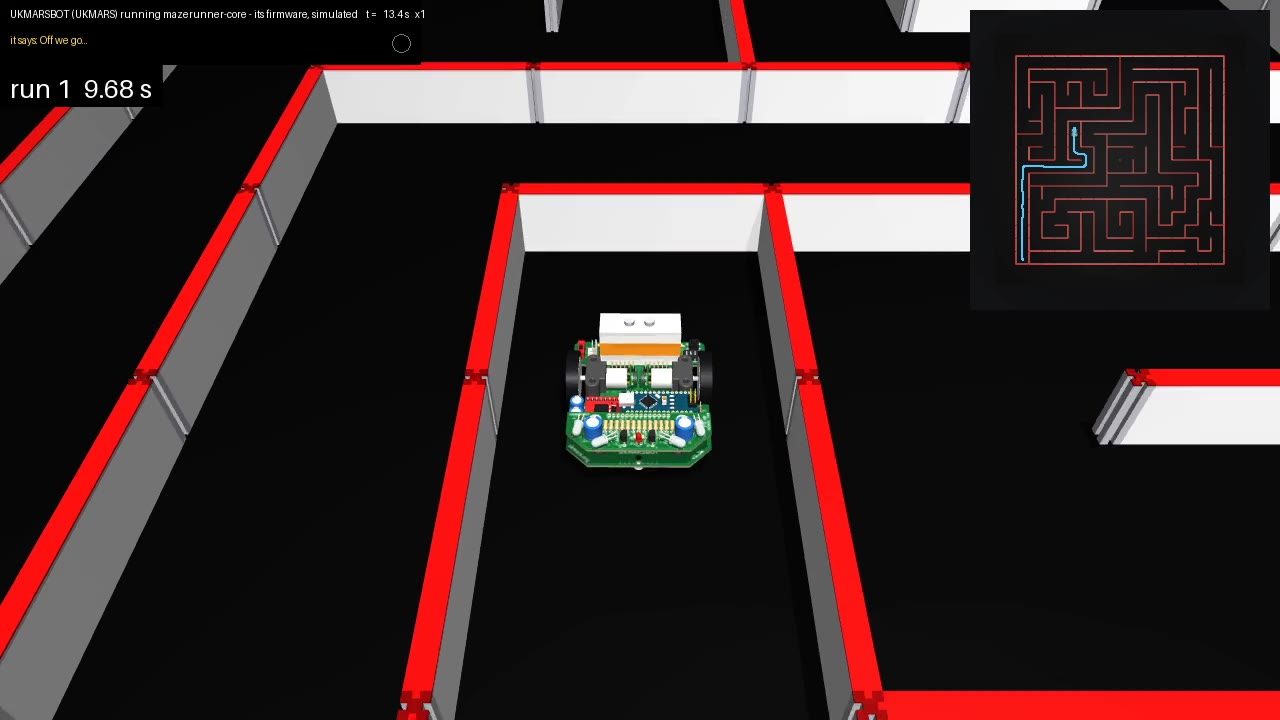
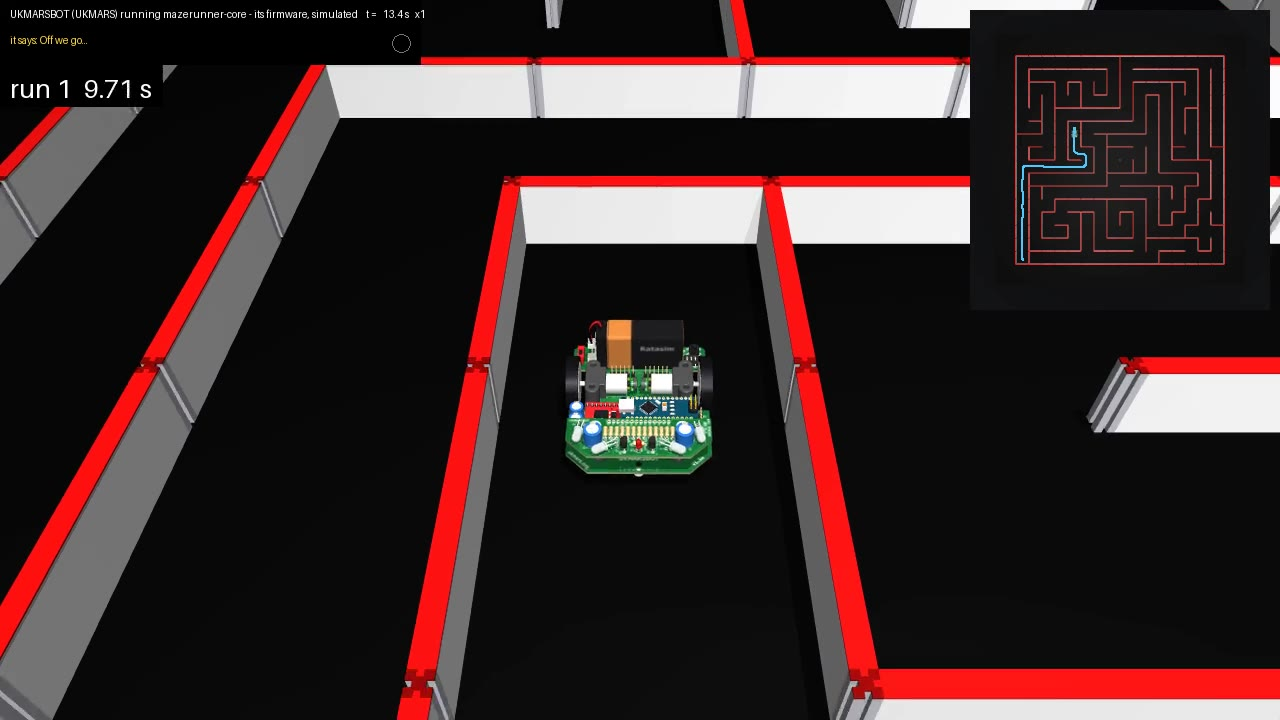
UKMARSBOT's battery as a real PP3 rather than a plain block (ratasim/ukmarsbot/battery.py): the standard's shape (IEC 6LR61, as Duracell's MN1604 and Energizer's 522 data sheets draw it; KiCad's 3D library has no 9 V battery): 48.5 x 26.5 x 17.5 mm overall, its long edges rounded, its top's crimped 

diff --git a/ratasim/ukmarsbot/battery.py b/ratasim/ukmarsbot/battery.py
@@ -1,0 +1,302 @@
+"""UKMARSBOT's battery: a PP3 (IEC 6LR61, ANSI 1604A) lying on its edge behind the motors, its long side across the
+robot and its snap terminals to its right, with the snap clip its photos show on them (renders/ukmarsbot-600x526.png)
+and the clip's red and black leads down to the main board's battery connector (J1, a Molex KK 2-pin header).
+
+Its shape from the standard's drawing (IEC 60086-2, as Duracell's MN1604 and Energizer's 522 data sheets give it,
+there being no 9 V battery in KiCad's 3D library): 48.5 mm overall, a 26.5 x 17.5 mm body (its four long edges
+rounded) of up to 46.4 mm, its top's crimped shoulder down to 24.5 x 15.5 mm, and on it the two snaps 12.7 mm apart
+along the face's long side: the positive a round stud (the smaller, male), the negative a hollow hexagon (the larger,
+female), both 3 mm high, nickel-plated steel.
+
+Its look: an alkaline battery's, black with a copper band at its top, a copper shoulder (the colours of the
+best-known "copper top" alkaline cells, without their name or drawings), and "Ratasim", small, on the face looking
+forward (the side its portrait sees over the motors). The body's sides are one mesh with its label as a texture,
+drawn here at build time.
+
+The robot's frame (mm, model.py): x right, y forward, z up from the floor.
+
+    python -m ratasim.ukmarsbot.battery        # makes them again
+
+Writes MESHES/battery_*.obj and MESHES/battery_label.png.
+"""
+import math
+import os
+import sys
+
+from . import config as U
+
+# The standard's sizes (mm)
+WIDTH, DEPTH = 26.5, 17.5               # its body's section: standing on its edge, WIDTH is its height
+CORNER_R = 2.0                          # its long edges' rounding
+BODY_L = 44.5                           # its body, from its bottom to its top's shoulder
+SHOULDER_L, SHOULDER_W, SHOULDER_D = 1.0, 24.5, 15.5
+SNAP_H = 3.0                            # the snaps over the shoulder: 48.5 mm overall
+SNAP_PITCH = 12.7
+STUD_R, STUD_NECK_R = 2.85, 2.35        # the positive's round stud, narrower at its foot
+HEX_R, HEX_HOLE_R = 4.0, 2.9            # the negative's hexagon (its corners' radius) and its hole
+OVERALL = BODY_L + SHOULDER_L + SNAP_H
+
+# Where it lies (robot frame): its bottom at X0, its top (and snaps) to +x, standing on the main board's top behind
+# the motors, between the function switches (x < -26.5) and the battery connector J1 (x > 25.9)
+X0 = -26.0
+Y_MID = -25.0
+Z0 = U.MAIN_TOP
+Z_MID = Z0 + WIDTH / 2
+X_TOP = X0 + BODY_L + SHOULDER_L        # the shoulder's face, the snaps' foot
+SNAPS = {'+': Z_MID + SNAP_PITCH / 2, '-': Z_MID - SNAP_PITCH / 2}       # their height (centres)
+
+# Its clip: a black cap pressed on the snaps (on its outside its own snaps' rivets, mirrored: a hexagon over the
+# battery's positive, a round one over its negative) and its two leads, to J1's pins
+CLIP_L, CLIP_W, CLIP_D = 6.0, 25.0, 16.0
+CLIP_X0 = X_TOP + 0.2
+J1_PINS = {'+': (28.85, -26.74), '-': (28.85, -24.20)}         # kicad.py: J1's pads, /PWR_IN and GND
+J1_TOP = Z0 + 12.1                     # the header's top (its 3D model)
+LEAD_R = 0.65
+
+# Colours (RGB 0-255): a matte black body; copper as on photos of such cells; nickel-plated snaps
+BLACK_RGB = (22, 22, 24)
+COPPER_RGB = (184, 112, 54)            # the band
+COPPER_TOP_RGB = (196, 128, 70)        # the shoulder, brighter (its metal)
+TEXT_RGB = (150, 150, 152)             # "Ratasim": light grey, small
+STEEL = (0.78, 0.78, 0.80, 1)
+CLIP_RGBA = (0.08, 0.08, 0.09, 1)
+PLUG_RGBA = (0.93, 0.93, 0.88, 1)      # the KK crimp housing, white nylon
+LEAD_RGBA = {'+': (0.80, 0.06, 0.05, 1), '-': (0.05, 0.05, 0.05, 1)}
+BAND_L = 13.5                          # the copper band, from the shoulder down (about its top third)
+LABEL = 'Ratasim'
+LABEL_H = 3.2                          # its letters' height (mm)
+
+PX_MM = 24                             # the label's texture
+CORNER_N = 8
+MESHES = os.path.join(U.BUILD, 'meshes')
+
+
+def rgba(rgb, a=1.0):
+    return tuple(round(v / 255, 3) for v in rgb) + (a,)
+
+
+# ---- geometry ------------------------------------------------------------------------------------------------------
+def _rounded_rect(w, d, r, n=CORNER_N):
+    """A rounded rectangle's outline, (y, z) about its centre (d along y, w along z), counter-clockwise seen from +x,
+    from its bottom's +y end (the corner at +y -z first): its points and their distances along it (closed: one more)."""
+    pts = []
+    corners = ((d / 2 - r, -w / 2 + r, -90), (d / 2 - r, w / 2 - r, 0), (-d / 2 + r, w / 2 - r, 90),
+               (-d / 2 + r, -w / 2 + r, 180))
+    for cy, cz, a0 in corners:
+        for k in range(n + 1):
+            a = math.radians(a0 + 90 * k / n)
+            pts.append((cy + r * math.cos(a), cz + r * math.sin(a)))
+    s = [0.0]
+    for p, q in zip(pts, pts[1:] + pts[:1]):
+        s.append(s[-1] + math.dist(p, q))
+    return pts, s
+
+
+def _write_obj(path, verts, faces, uvs=None):
+    with open(path, 'w') as f:
+        for v in verts:
+            f.write('v {:.4f} {:.4f} {:.4f}\n'.format(*v))
+        if uvs:
+            for u in uvs:
+                f.write('vt {:.5f} {:.5f}\n'.format(*u))
+        for t in faces:
+            a, b, c = (i + 1 for i in t)
+            f.write(f'f {a}/{a} {b}/{b} {c}/{c}\n' if uvs else f'f {a} {b} {c}\n')
+
+
+def _side_obj(path):
+    """The body's sides with their label's UVs: u round the section (from the corner at -y -z, by +y first), v along
+    its length (0 at its bottom)."""
+    pts, s = _rounded_rect(WIDTH, DEPTH, CORNER_R)
+    per = s[-1]
+    ring = pts + pts[:1]                 # the seam's point twice (u 0 and 1)
+    verts, uvs, faces = [], [], []
+    for x, v in ((X0, 0.0), (X0 + BODY_L, 1.0)):
+        for (y, z), si in zip(ring, s):
+            verts.append((x, Y_MID + y, Z_MID + z))
+            uvs.append((si / per, v))
+    n = len(ring)
+    for i in range(n - 1):
+        a, b, c, d = i, i + 1, n + i + 1, n + i
+        faces += [(a, b, c), (a, c, d)]  # outward: the outline counter-clockwise from +x, x growing
+    _write_obj(path, verts, faces, uvs)
+    return per
+
+
+def _cap_obj(path, x, pts, outward):
+    """A flat end: the outline's fan from its centre, facing +x (outward 1) or -x (-1)."""
+    verts = [(x, Y_MID, Z_MID)] + [(x, Y_MID + y, Z_MID + z) for y, z in pts]
+    n = len(pts)
+    faces = [(0, 1 + i, 1 + (i + 1) % n) if outward > 0 else (0, 1 + (i + 1) % n, 1 + i) for i in range(n)]
+    _write_obj(path, verts, faces)
+
+
+def _shoulder_obj(path):
+    """The top's crimped shoulder: from the body's section to the smaller one, and its flat face."""
+    big, _ = _rounded_rect(WIDTH, DEPTH, CORNER_R)
+    small, _ = _rounded_rect(SHOULDER_W, SHOULDER_D, CORNER_R - 0.6)
+    n = len(big)
+    x1 = X0 + BODY_L
+    verts = [(x1, Y_MID + y, Z_MID + z) for y, z in big] + [(X_TOP, Y_MID + y, Z_MID + z) for y, z in small]
+    verts.append((X_TOP, Y_MID, Z_MID))
+    faces = []
+    for i in range(n):
+        j = (i + 1) % n
+        faces += [(i, j, n + j), (i, n + j, n + i), (2 * n, n + i, n + j)]
+    _write_obj(path, verts, faces)
+
+
+def _lathe(profile, centre, sides):
+    """A solid of revolution about the x axis through centre (y, z): profile [(x, r)], from its foot; its polygon of
+    `sides` (6 with its corners at radius r: a hexagon)."""
+    cy, cz = centre
+    verts, faces = [], []
+    for x, r in profile:
+        for k in range(sides):
+            a = 2 * math.pi * (k + 0.5) / sides
+            verts.append((x, cy + r * math.cos(a), cz + r * math.sin(a)))
+    for i in range(len(profile) - 1):
+        for k in range(sides):
+            a, b = i * sides + k, i * sides + (k + 1) % sides
+            c, d = b + sides, a + sides
+            faces += [(a, b, c), (a, c, d)]
+    for end, flip in ((0, True), (len(profile) - 1, False)):       # their ends' discs (an inner ring's left open)
+        if profile[end][1] == 0:
+            continue
+        verts.append((profile[end][0], cy, cz))
+        o = len(verts) - 1
+        for k in range(sides):
+            a, b = end * sides + k, end * sides + (k + 1) % sides
+            faces.append((o, b, a) if flip else (o, a, b))
+    return verts, faces
+
+
+def _snaps_obj(path):
+    """The battery's two snaps on its shoulder: the positive's stud (a neck, its rounded head), the negative's hollow
+    hexagon (its outside, its rim, its hole's wall to a floor); the clip's rivets."""
+    x = X_TOP
+    stud = [(x, STUD_NECK_R), (x + 1.0, STUD_NECK_R), (x + 1.1, STUD_R), (x + SNAP_H - 0.5, STUD_R),
+            (x + SNAP_H - 0.1, STUD_R - 0.5), (x + SNAP_H, STUD_R - 1.0)]
+    v1, f1 = _lathe(stud, (Y_MID, SNAPS['+']), 32)
+    # the hexagon: its outer wall up, its rim in, its inner wall down; the inner faces turned inwards
+    hx = [(x, HEX_R), (x + SNAP_H, HEX_R)]
+    v2, f2 = _lathe(hx, (Y_MID, SNAPS['-']), 6)
+    v2 = v2[:12]                                       # no end discs: the rim and the hole below
+    f2 = [t for t in f2 if max(t) < 12]
+    rim_in = []
+    for k in range(6):
+        a = 2 * math.pi * (k + 0.5) / 6
+        rim_in.append((x + SNAP_H, Y_MID + HEX_HOLE_R * math.cos(a), SNAPS['-'] + HEX_HOLE_R * math.sin(a)))
+    for k in range(6):
+        a = 2 * math.pi * (k + 0.5) / 6
+        rim_in.append((x + 0.6, Y_MID + HEX_HOLE_R * math.cos(a), SNAPS['-'] + HEX_HOLE_R * math.sin(a)))
+    base = len(v2)
+    v2 += rim_in + [(x + 0.6, Y_MID, SNAPS['-'])]
+    for k in range(6):
+        j = (k + 1) % 6
+        o_top, i_top, i_bot = 6 + k, base + k, base + 6 + k
+        o_top2, i_top2, i_bot2 = 6 + j, base + j, base + 6 + j
+        f2 += [(o_top, o_top2, i_top2), (o_top, i_top2, i_top)]              # the rim, facing +x
+        f2 += [(i_top, i_top2, i_bot2), (i_top, i_bot2, i_bot)]              # the hole's wall, facing in
+        f2.append((base + 12, i_bot, i_bot2))                                # its floor, facing +x
+    verts, faces = [], []
+    # and the clip's snaps' rivets on its cap's outside: a hexagon over the battery's +, a round one over its -
+    x1 = CLIP_X0 + CLIP_L
+    v3, f3 = _lathe([(x1, 3.4), (x1 + 0.6, 3.4), (x1 + 0.8, 2.8)], (Y_MID, SNAPS['+']), 6)
+    v4, f4 = _lathe([(x1, 2.6), (x1 + 0.5, 2.6), (x1 + 0.8, 1.8)], (Y_MID, SNAPS['-']), 24)
+    for v, f in ((v1, f1), (v2, f2), (v3, f3), (v4, f4)):
+        faces += [tuple(i + len(verts) for i in t) for t in f]
+        verts += v
+    _write_obj(path, verts, faces)
+
+
+def _label_png(path, per):
+    """The sides' texture: black, the copper band at the top (the image's top rows: v 1), "Ratasim" on the face
+    looking forward (+y), upright seen from there (reading from the battery's top to its bottom)."""
+    from PIL import Image, ImageDraw, ImageFont
+    _, s = _rounded_rect(WIDTH, DEPTH, CORNER_R)
+    W, H = int(round(per * PX_MM)), int(round(BODY_L * PX_MM))
+    img = Image.new('RGB', (W, H), BLACK_RGB)
+    d = ImageDraw.Draw(img)
+    d.rectangle((0, 0, W, int(round(BAND_L * PX_MM))), fill=COPPER_RGB)
+    # the face looking forward (+y): the outline's stretch from (d/2, -w/2 + r) to (d/2, w/2 - r)
+    i0 = CORNER_N                          # the first corner's last point: (d/2, -w/2 + r)
+    s_lo = s[i0]                           # along u: z from -w/2 + r up
+    # the text, drawn upright then turned: its baseline along the battery's length, its up +z
+    try:
+        font = ImageFont.truetype('/usr/share/fonts/truetype/dejavu/DejaVuSans-Bold.ttf', int(LABEL_H * PX_MM * 1.4))
+    except OSError:
+        font = ImageFont.load_default()
+    box = font.getbbox(LABEL)
+    tw, th = box[2] - box[0], box[3] - box[1]
+    t = Image.new('L', (tw + 8, th + 8), 0)
+    ImageDraw.Draw(t).text((4 - box[0], 4 - box[1]), LABEL, font=font, fill=255)
+    # seen from +y the battery's top (+x) is on the left: the text reads from the top towards the bottom, so in the
+    # image (rows from the top's end, columns along u = +z) its baseline runs down the rows, its up to +u
+    t = t.rotate(-90, expand=True)
+    zc = Z0 + WIDTH * 0.68 - Z_MID         # high on the face, above the motors seen from the front
+    xc = (BODY_L - BAND_L) / 2             # the middle of the black part (mm from the bottom)
+    cu = (s_lo + (zc + WIDTH / 2 - CORNER_R)) * PX_MM
+    cv = (BODY_L - xc) * PX_MM
+    img.paste(Image.new('RGB', t.size, TEXT_RGB), (int(cu - t.size[0] / 2), int(cv - t.size[1] / 2)), t)
+    img.save(path)
+
+
+def build(out=MESHES):
+    os.makedirs(out, exist_ok=True)
+    per = _side_obj(os.path.join(out, 'battery_side.obj'))
+    pts, _ = _rounded_rect(WIDTH, DEPTH, CORNER_R)
+    _cap_obj(os.path.join(out, 'battery_bottom.obj'), X0, pts, -1)
+    _shoulder_obj(os.path.join(out, 'battery_top.obj'))
+    _snaps_obj(os.path.join(out, 'battery_snaps.obj'))
+    _label_png(os.path.join(out, 'battery_label.png'), per)
+    return out
+
+
+def ensure(out=MESHES):
+    """The battery's meshes and label, made first if missing or older than this file or config.py."""
+    f = os.path.join(out, 'battery_label.png')
+    if os.path.exists(f) and os.path.getmtime(f) >= max(os.path.getmtime(__file__), os.path.getmtime(U.__file__)):
+        return out
+    return build(out)
+
+
+# ---- MuJoCo -------------------------------------------------------------------------------------------------------
+def assets_xml(mm):
+    d = ensure()
+    s = f'{mm} {mm} {mm}'
+    return (f'<texture name="k_battery_label" type="2d" file="{d}/battery_label.png"/>'
+            '<material name="k_battery_label" texture="k_battery_label" specular="0.15" shininess="0.2"/>'
+            + ''.join(f'<mesh name="k_battery_{p}" file="{d}/battery_{p}.obj" scale="{s}" inertia="shell"/>'
+                      for p in ('side', 'bottom', 'top', 'snaps')))
+
+
+def visuals(box, rod, f):
+    """Its geoms (model.py's helpers: box(lo, hi, rgba), rod(p0, p1, r, rgba, kind), f(*v) for numbers)."""
+    g = ['<geom class="kvisual" type="mesh" mesh="k_battery_side" material="k_battery_label"/>',
+         f'<geom class="kvisual" type="mesh" mesh="k_battery_bottom" rgba="{f(*rgba(BLACK_RGB))}"/>',
+         f'<geom class="kvisual" type="mesh" mesh="k_battery_top" rgba="{f(*rgba(COPPER_TOP_RGB))}"/>',
+         f'<geom class="kvisual" type="mesh" mesh="k_battery_snaps" rgba="{f(*STEEL)}"/>']
+    # the clip's cap (its rivets with the snaps' mesh)
+    x1 = CLIP_X0 + CLIP_L
+    g.append(box((CLIP_X0, Y_MID - CLIP_D / 2, Z_MID - CLIP_W / 2), (x1, Y_MID + CLIP_D / 2, Z_MID + CLIP_W / 2),
+                 CLIP_RGBA))
+    # the crimp housing on J1 and the leads: out of the cap's top, in a loop over to the housing and down into it
+    (px, _), ys = J1_PINS['+'], [p[1] for p in J1_PINS.values()]
+    g.append(box((px - 2.3, min(ys) - 1.9, J1_TOP), (px + 2.3, max(ys) + 1.9, J1_TOP + 3.0), PLUG_RGBA))
+    for k, (jx, jy) in J1_PINS.items():
+        z0, y0 = Z_MID + CLIP_W / 2, Y_MID + (jy - Y_MID) * 1.2
+        p0, p1 = (x1 - 2.5, y0, z0), (x1 - 2.5, y0, z0 + 8.0)
+        p2, p3 = (jx + 4.0, jy, J1_TOP + 16.0), (jx, jy, J1_TOP + 3.0)
+        pts = [_bezier(p0, p1, p2, p3, i / 10) for i in range(11)]
+        g += [rod(a, b, LEAD_R, LEAD_RGBA[k], 'capsule') for a, b in zip(pts, pts[1:])]
+    return ''.join(g)
+
+
+def _bezier(p0, p1, p2, p3, t):
+    u = 1 - t
+    return tuple(u ** 3 * a + 3 * u * u * t * b + 3 * u * t * t * c + t ** 3 * d for a, b, c, d in zip(p0, p1, p2, p3))
+
+
+if __name__ == '__main__':
+    print(build(*sys.argv[1:2]))

diff --git a/ratasim/ukmarsbot/model.py b/ratasim/ukmarsbot/model.py
@@ -2,8 +2,8 @@
 boards, their outlines (Edge.Cuts, kicad.py) and their faces textured from their Gerber files (pcb.py), and every
 part their footprints place, their 3D models where KiCad puts them (cad.py): the Arduino Nano, the TB6612FNG module,
 the gearmotors in their brackets with their encoders, the IR emitters and phototransistors, the capacitors,
-resistors, diodes, headers, switches and button; the PP3 battery standing behind the motors and the 32 mm wheels,
-which its boards do not place, where its photos and renders put them.
+resistors, diodes, headers, switches and button; the PP3 battery lying behind the motors with its clip and leads
+(battery.py) and the 32 mm wheels, which its boards do not place, where its photos and renders put them.
 Collisions: the main board's outline as a convex hull up to the battery's top, its two tyres (2 mm wide, at its
 firmware's MOUSE_RADIUS), its two skids.
 """
@@ -14,7 +14,7 @@ import os
 from .. import config as C
 from ..hand import hand_xml
 from ..model import MM, ROBOT_GROUP, WALL_GROUP, _f, maze_xml
-from . import cad
+from . import battery, cad
 from . import config as U
 from . import pcb
 from .kicad import Board
@@ -98,16 +98,12 @@ def _wheel(s):
 
 
 def _chassis():
-    t = U.MAIN_TOP
     g = [f'<geom class="kvisual" type="mesh" mesh="k_{b}_{face}" material="k_{b}_{face}"/>'
          for b in pcb.BOARDS for face in ('top', 'bottom')]
     g += [f'<geom class="kvisual" type="mesh" mesh="k_{b}_side" rgba="{_f(*EDGE)}"/>' for b in pcb.BOARDS]
     g += [f'<geom class="kvisual" type="mesh" mesh="k_{e["file"][:-4]}" rgba="{_f(*e["rgba"])}"/>' for e in _meshes()]
-    # the battery standing behind the motors (a rechargeable PP3: 48.5 x 26.5 x 17.5 mm), its leads' plug
-    g.append(_box((-24.75, -33.75, t), (23.75, -16.25, t + 26.5), (0.94, 0.94, 0.92, 1)))
-    g.append(_box((-24.80, -33.80, t + 8), (23.80, -16.20, t + 18), (0.95, 0.55, 0.10, 1)))
-    for x in (-6.0, 6.0):
-        g.append(_rod((x, -25.0, t + 26.5), (x, -25.0, t + 29.0), 3.0, SILVER))
+    # the PP3 battery behind the motors, its clip and leads (battery.py)
+    g.append(battery.visuals(_box, _rod, _f))
     # its skids
     for y in (U.SKID_Y[0], U.SKID_Y[1]):
         g.append(_rod((0, y, U.MAIN_BOTTOM), (0, y, U.SKID_R + U.SKID_CLEARANCE_MM), U.SKID_R, SKID))
@@ -134,8 +130,9 @@ def assets_xml():
                    for b in pcb.BOARDS for part in ('top', 'bottom', 'side'))
     out += ''.join(f'<mesh name="k_{e["file"][:-4]}" file="{d}/{e["file"]}" scale="{_f(MM, MM, MM)}" inertia="shell"/>'
                    for e in _meshes())
+    out += battery.assets_xml(MM)
     hull = ' '.join(f'{x * MM:.5f} {y * MM:.5f} {z * MM:.5f}' for x, y in main.loops()[0]
-                    for z in (U.MAIN_BOTTOM, U.MAIN_TOP + 26.5))
+                    for z in (U.MAIN_BOTTOM, U.MAIN_TOP + battery.WIDTH))
     return out + f'<mesh name="k_hull" vertex="{hull}"/>'
 
 

diff --git a/ratasim/ukmarsbot/cad.py b/ratasim/ukmarsbot/cad.py
@@ -12,7 +12,7 @@ a footprint on the bottom); a model in mm (STEP) or in tenths of an inch (VRML, 
 
 (KiCad's 3d-viewer, create_scene.cpp), then to the robot frame as kicad.py's: x_robot = -y3d - 105, y_robot = x3d - 105.
 A stock model named .wrl is taken as its .step (kicad-cli's --subst-models). The motors' footprints place the
-gearmotors with their brackets; the wheels, the battery and the skids are not on the boards (model.py).
+gearmotors with their brackets; the wheels, the battery and the skids are not on the boards (model.py, battery.py).
 
     python -m ratasim.ukmarsbot.cad        # makes them again
 

diff --git a/docs/robots.md b/docs/robots.md
@@ -338,10 +338,14 @@ By the [UK Micromouse and Robotics Society](https://ukmars.org/projects/ukmarsbo
   build time as Bulebule's; the IR emitters water-clear as in its photos), the repository's own for the gearmotors in
   their brackets with their encoders (lifted 0.5 mm onto the board, their gearboxes on the wheels' axle), the
   TB6612FNG module and the switches (coloured as its renders show them: gmsh reads none of their colours), the Arduino
-  Nano's X3D model. Not on its boards: the PP3 battery standing behind the motors and the 32 mm wheels, where its
-  photos and renders put them, two skids. Collisions: the main board's outline up to the battery, its tyres (their
-  contact 2 mm wide, at its `MOUSE_RADIUS`: a 7 mm cylinder touches the floor at its edges, and its turns in place
-  came out 10° short), its skids.
+  Nano's X3D model. Not on its boards: the PP3 battery lying on its edge behind the motors and the 32 mm wheels, where
+  its photos and renders put them, two skids. The battery (`battery.py`) as the standard's drawing gives a PP3
+  (6LR61: 48.5 x 26.5 x 17.5 mm, its long edges rounded, its top's shoulder, its two snaps 12.7 mm apart, the round
+  positive and the hollow hexagonal negative; KiCad's library has no 9 V battery), black with a copper band and top
+  like the best-known alkaline ones, "Ratasim" small on its front face; its snap clip on it, as in its photos, with
+  its red and black leads in a loop down to the main board's battery connector. Collisions: the main board's outline
+  up to the battery, its tyres (their contact 2 mm wide, at its `MOUSE_RADIUS`: a 7 mm cylinder touches the floor at
+  its edges, and its turns in place came out 10° short), its skids.
 - **Sensors:** where the sensor board puts each SFH4545 emitter and TEFT4300 phototransistor: the front pair at the
   sides looking 10° out, the diagonal pair at the nose looking 60° out; channels and emitters as its board's
   connector and its config. The light back from a wall: a diffuse reflector, cos(incidence) A / (d + 13.3 mm)², three
